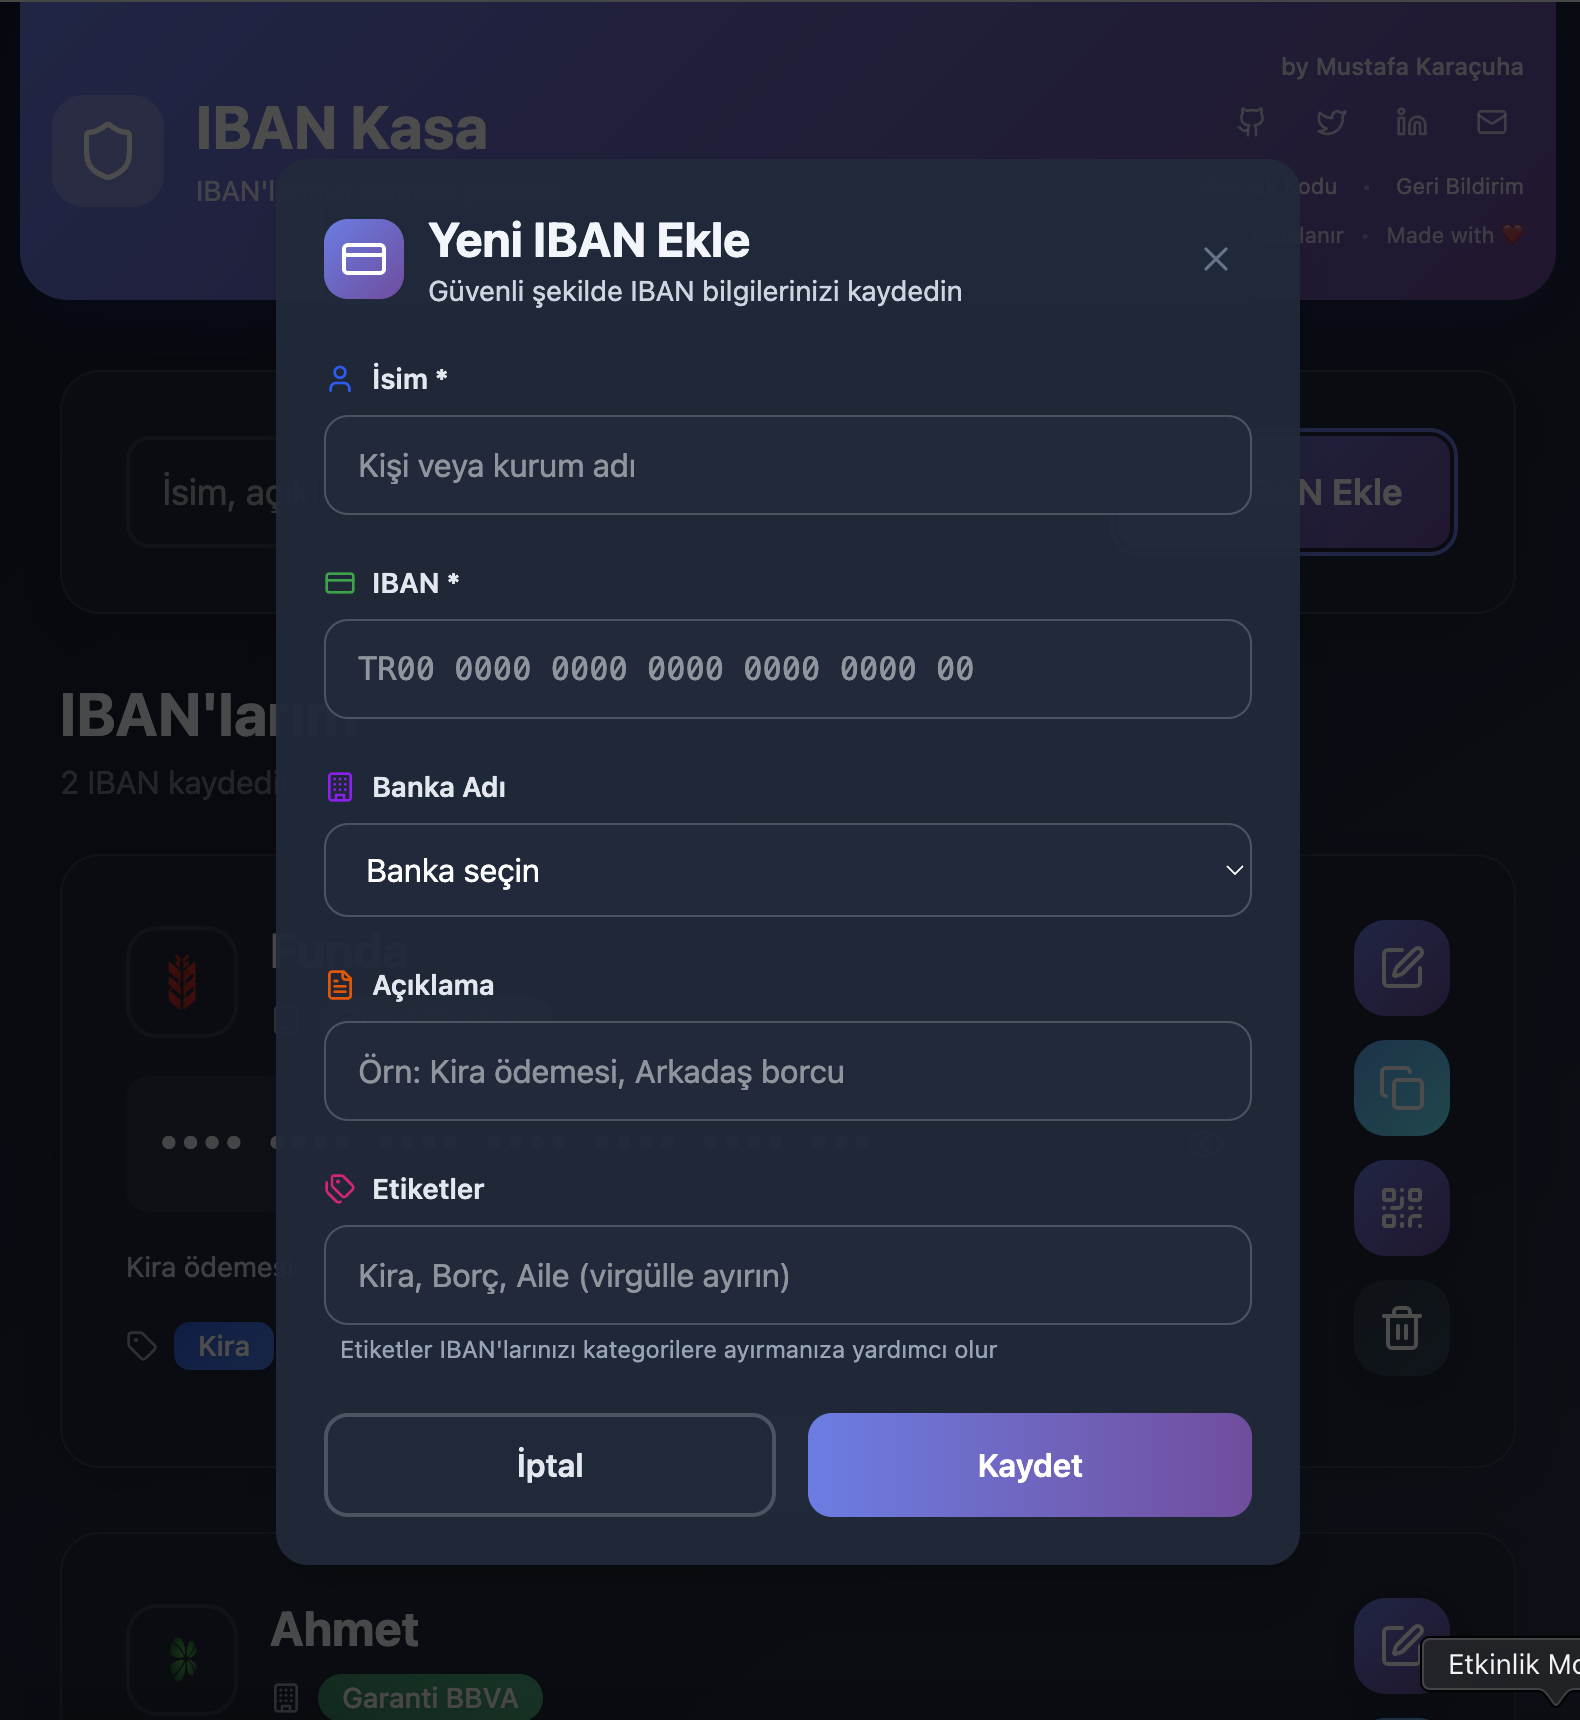
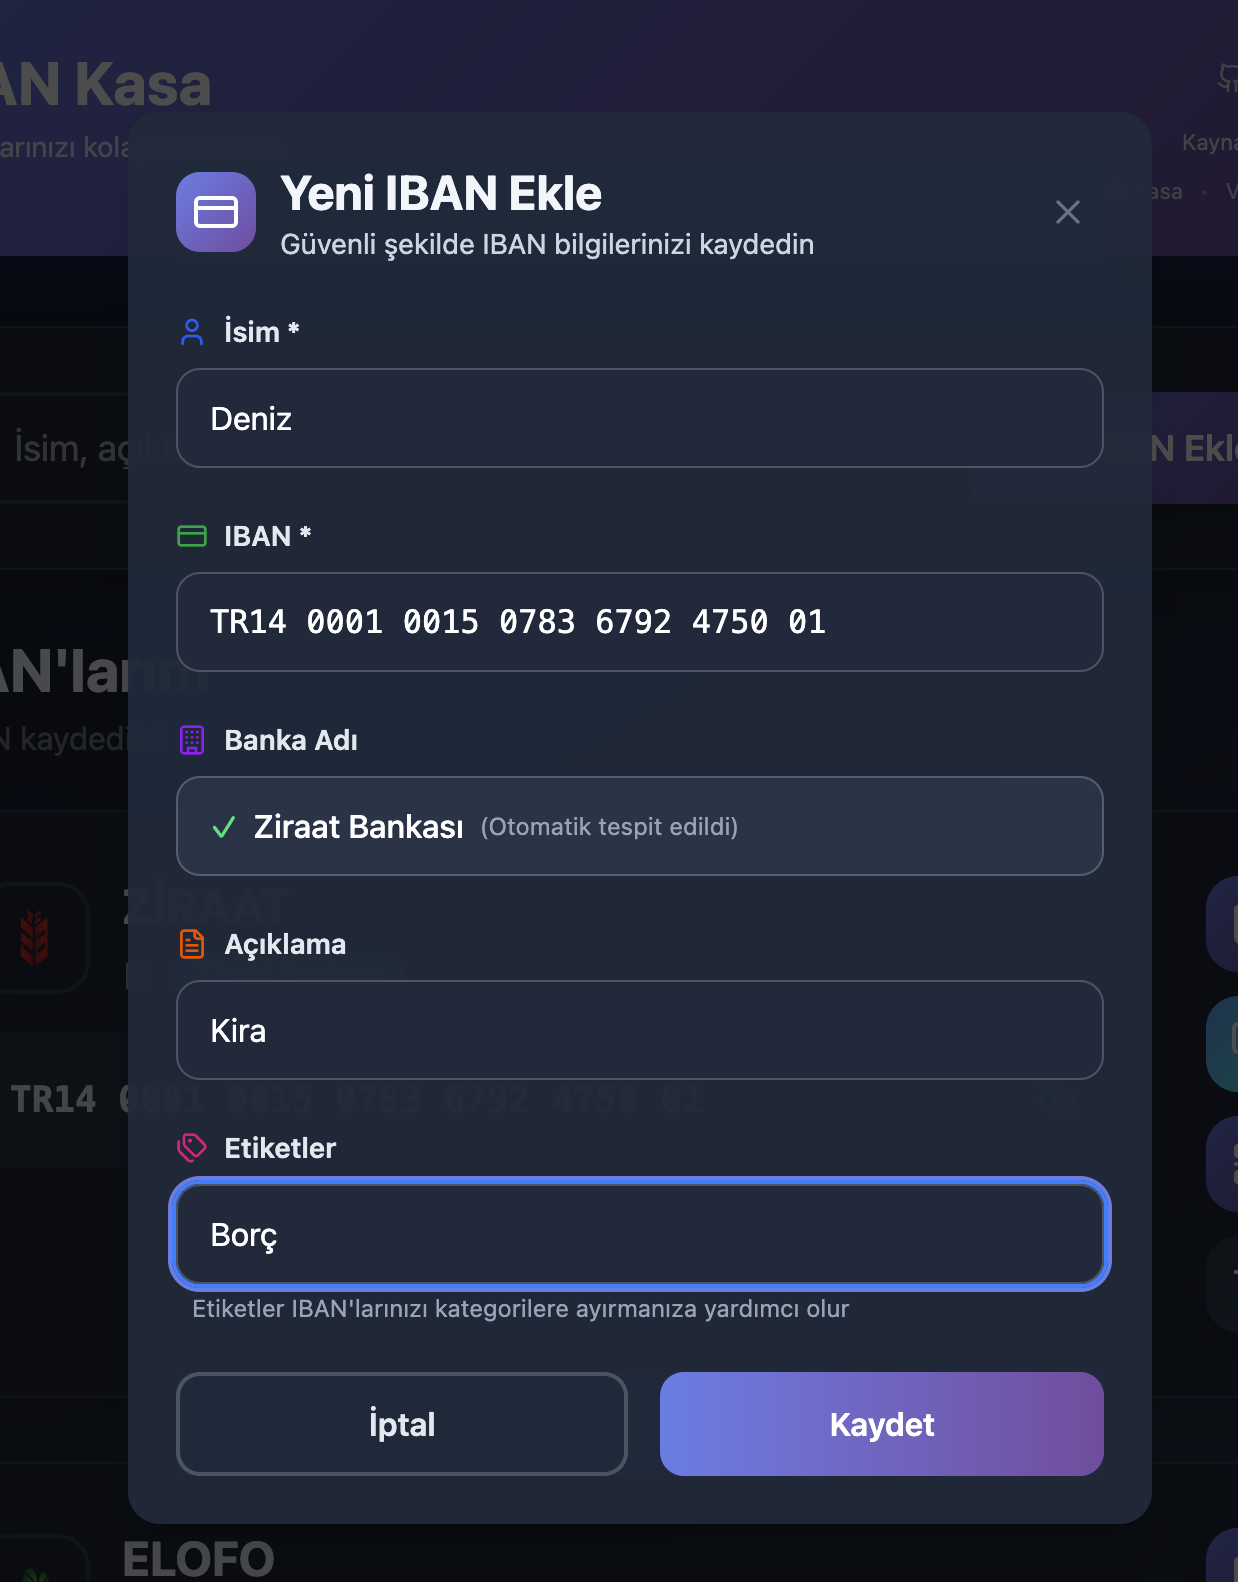
README: add auto bank detection feature; Modal: show bank field only after IBAN input

diff --git a/src/components/AddIbanModal.jsx b/src/components/AddIbanModal.jsx
@@ -84,24 +84,26 @@ function AddIbanModal({
               />
             </div>
 
-            {/* Banka Adı (Otomatik Tespit) */}
-            <div>
-              <label className="block text-sm font-semibold text-gray-700 dark:text-gray-200 mb-2 flex items-center gap-2">
-                <Building className="w-4 h-4 text-purple-600" />
-                Banka Adı
-              </label>
-              <div className="w-full px-4 py-3 border border-gray-300 dark:border-gray-600 rounded-xl bg-gray-50 dark:bg-slate-700 text-gray-900 dark:text-white">
-                {formData.bankName ? (
-                  <div className="flex items-center gap-2">
-                    <span className="text-green-600 dark:text-green-400">✓</span>
-                    <span className="font-medium">{formData.bankName}</span>
-                    <span className="text-xs text-gray-500">(Otomatik tespit edildi)</span>
-                  </div>
-                ) : (
-                  <span className="text-gray-500">IBAN girin, banka otomatik tespit edilecek</span>
-                )}
+            {/* Banka Adı (Otomatik Tespit) - Sadece IBAN girildiğinde göster */}
+            {formData.iban && (
+              <div>
+                <label className="block text-sm font-semibold text-gray-700 dark:text-gray-200 mb-2 flex items-center gap-2">
+                  <Building className="w-4 h-4 text-purple-600" />
+                  Banka Adı
+                </label>
+                <div className="w-full px-4 py-3 border border-gray-300 dark:border-gray-600 rounded-xl bg-gray-50 dark:bg-slate-700 text-gray-900 dark:text-white">
+                  {formData.bankName ? (
+                    <div className="flex items-center gap-2">
+                      <span className="text-green-600 dark:text-green-400">✓</span>
+                      <span className="font-medium">{formData.bankName}</span>
+                      <span className="text-xs text-gray-500">(Otomatik tespit edildi)</span>
+                    </div>
+                  ) : (
+                    <span className="text-gray-500">Banka tespit edilemedi</span>
+                  )}
+                </div>
               </div>
-            </div>
+            )}
             
             {/* Açıklama */}
             <div>

diff --git a/src/utils/bankLogos.js b/src/utils/bankLogos.js
@@ -1,6 +1,4 @@
-// Banka logoları mapping
 export const bankLogos = {
-  // Büyük Bankalar
   "Ziraat Bankası": "/bank-logos/ziraat.png?v=1",
   "İş Bankası": "/bank-logos/isbank.png?v=1",
   "Garanti BBVA": "/bank-logos/garanti.png?v=1",
@@ -19,24 +17,20 @@ export const bankLogos = {
   "Kuveyt Türk": "/bank-logos/kuveytturk.png?v=1",
   "Vakıf Katılım": "/bank-logos/vakifkatilim.png?v=1",
   "Ziraat Katılım": "/bank-logos/ziraatkatilim.png?v=1",
-  "İş Katılım": "/bank-logos/iskatilim.png?v=1",
+  "İş Katılım": "/bank-logos/isbank.png?v=1",
   "Türkiye Emlak Katılım": "/bank-logos/emlakkatilim.png?v=1"
 };
 
-// Banka logosu getir
 export const getBankLogo = (bankName) => {
   return bankLogos[bankName] || null;
 };
 
-// Banka tipini kontrol et (sadece bankalar)
 export const isBank = (bankName) => {
   if (!bankName) return false;
   
-  // Direkt olarak bankLogos objesinde varsa banka olarak kabul et
   return bankLogos.hasOwnProperty(bankName);
 };
 
-// Banka rengi getir (logo yoksa renk kullan)
 export const getBankColor = (bankName) => {
   const bankColors = {
     "Ziraat Bankası": "bg-red-600",

diff --git a/src/utils/ibanUtils.js b/src/utils/ibanUtils.js
@@ -58,22 +58,14 @@ export const turkishBanks = [
   "Türkiye Emlak Katılım"
 ];
 
-// IBAN'dan banka adını çıkar
 export const getBankFromIBAN = (iban) => {
   if (!iban || iban.length < 7) return null;
   
   const cleanIban = iban.replace(/\s/g, "").toUpperCase();
   
-  // Debug için log
-  console.log('IBAN:', cleanIban);
-  console.log('IBAN karakterleri:', cleanIban.split('').map((char, i) => `${i}:${char}`).join(' '));
-  
-  // TR800006200050000006600832 -> 0062 (5-8. haneler)
   const bankCode = cleanIban.substring(5, 9);
-  console.log('Banka kodu:', bankCode);
-  
+
   const detectedBank = bankCodes[bankCode];
-  console.log('Tespit edilen banka:', detectedBank);
   
   return detectedBank || null;
 };

diff --git a/src/components/Header.jsx b/src/components/Header.jsx
@@ -81,8 +81,6 @@ function Header() {
               <span>© 2025 IBAN Kasa</span>
               <span className="opacity-50">•</span>
               <span>Veriler cihazınızda saklanır</span>
-              <span className="opacity-50">•</span>
-              <span>Made with ❤</span>
             </div>
           </div>
         </div>

diff --git a/README.md b/README.md
@@ -16,7 +16,8 @@ Güvenli IBAN yönetimi uygulaması. Kullanıcılar kendi veya başkalarına ait
 ### 💳 IBAN Yönetimi
 - **Otomatik Format**: IBAN'lar otomatik olarak formatlanır
 - **Doğrulama**: IBAN formatı otomatik kontrol edilir
-- **Banka Tanıma**: Türk bankaları otomatik algılanır
+- **Otomatik Banka Tespiti**: IBAN girildiğinde banka otomatik algılanır
+- **Türk Bankaları Desteği**: 19+ Türk bankası için otomatik tanıma
 - **QR Kod**: IBAN'lar için QR kod oluşturma
 
 ### 🔍 Arama ve Filtreleme
@@ -45,7 +46,7 @@ Güvenli IBAN yönetimi uygulaması. Kullanıcılar kendi veya başkalarına ait
 2. **IBAN Ekleme**: 
    - İsim (zorunlu)
    - IBAN (zorunlu, otomatik formatlanır)
-   - Banka adı (opsiyonel, otomatik algılanır)
+   - Banka adı (otomatik tespit edilir)
    - Açıklama ve etiketler (opsiyonel)
 3. **Arama**: Üst kısımdaki arama kutusunu kullanın
 4. **Filtreleme**: Banka dropdown'ından filtreleme yapın
@@ -60,8 +61,9 @@ Güvenli IBAN yönetimi uygulaması. Kullanıcılar kendi veya başkalarına ait
 - **Lucide React**: Modern icon set
 - **CryptoJS**: AES şifreleme
 - **QRCode.react**: QR kod oluşturma
-- **IBAN**: IBAN doğrulama
+- **IBAN**: IBAN doğrulama ve formatlama
 - **React Hot Toast**: Bildirimler
+- **Türk Banka Kodları**: 19+ banka için otomatik IBAN tanıma
 
 ## Güvenlik
 
